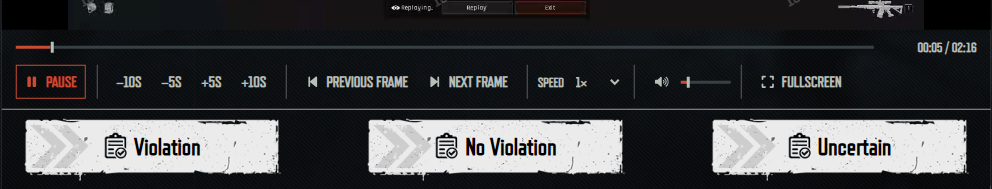
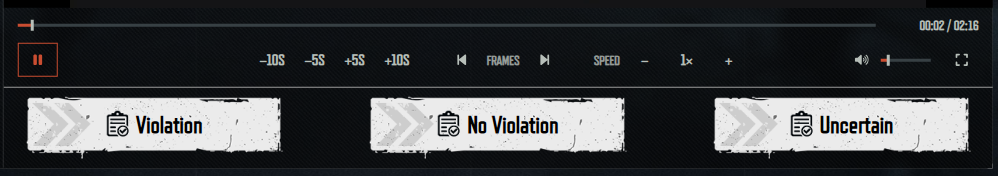
v1.3 - redesign toolbar layout and replace speed select with stepper
- Implement 3-zone layout (playback, centered controls, volume/fullscreen)
- Replace speed dropdown with stepper (0.1x to 3x) and quick reset
- Add frame-stepping controls and player keyboard shortcuts

diff --git a/abi-inspector-enhancer/content.js b/abi-inspector-enhancer/content.js
@@ -55,14 +55,24 @@
     .panel { padding:0 14px 10px; background:transparent; border:0; border-bottom:1px solid var(--abi-border,#41494b); }
     .timeline { display:flex; align-items:center; gap:16px; height:35px; }
     .time { font-size:13px; font-variant-numeric:tabular-nums; white-space:nowrap; min-width:87px; text-align:right; }
-    .row { display:flex; align-items:center; flex-wrap:wrap; row-gap:10px; }
-    .group { display:flex; align-items:center; gap:2px; padding:0 10px; border-left:1px solid color-mix(in srgb,var(--abi-border,#596160) 55%,transparent); }
-    .group:first-child { padding-left:0; border-left:0; }
-    .group:last-child { padding-right:0; }
-    button,select { font:inherit; font-size:15px; letter-spacing:inherit; text-transform:uppercase; height:34px; border:1px solid transparent; border-radius:0; color:inherit; background:transparent; padding:0 8px; cursor:pointer; white-space:nowrap; box-shadow:none; }
-    button:hover,select:hover { border-color:var(--abi-border,#707674); background:#ffffff05; }
+    .panel { container-type:inline-size; }
+    .row { display:grid; grid-template-columns:1fr auto 1fr; align-items:center; column-gap:12px; row-gap:8px; }
+    .left { justify-self:start; display:flex; align-items:center; }
+    .center { display:flex; align-items:center; justify-content:center; flex-wrap:wrap; gap:6px 26px; }
+    .right { justify-self:end; display:flex; align-items:center; gap:14px; }
+    .group { display:flex; align-items:center; gap:2px; }
+    .label { font-size:13px; text-transform:uppercase; padding:0 6px; opacity:.8; user-select:none; }
+    @container (max-width:860px) {
+      .row { grid-template-columns:1fr auto; }
+      .center { grid-column:1 / -1; grid-row:2; }
+    }
+    button { font:inherit; font-size:15px; letter-spacing:inherit; text-transform:uppercase; height:34px; border:1px solid transparent; border-radius:0; color:inherit; background:transparent; padding:0 8px; cursor:pointer; white-space:nowrap; box-shadow:none; }
+    button:hover { border-color:var(--abi-border,#707674); background:#ffffff05; }
     button[aria-pressed=true] { color:var(--abi-accent,#c3472d); border-bottom-color:currentColor; }
-    .primary { min-width:62px; color:var(--abi-accent,#c3472d); border:1px solid currentColor; margin-right:1px; }
+    .primary { width:40px; padding:0; color:var(--abi-accent,#c3472d); border:1px solid currentColor; }
+    #previous,#next,#fullscreen,#slower,#faster { width:34px; padding:0; }
+    #speedval { min-width:46px; padding:0 4px; text-transform:none; }
+    #speedval.changed { color:var(--abi-accent,#c3472d); }
     button:disabled,input:disabled { opacity:.35; cursor:default; }
     :focus-visible { outline:1px solid var(--abi-text,#e0e3de); outline-offset:2px; }
     input[type=range] { appearance:none; -webkit-appearance:none; height:18px; margin:0; padding:0; border:0; background:transparent; cursor:pointer; min-width:0; border-radius:0; }
@@ -70,9 +80,6 @@
     input[type=range]::-webkit-slider-thumb { appearance:none; -webkit-appearance:none; width:3px; height:11px; margin-top:-4px; border:0; border-radius:0; background:var(--abi-text,#e0e3de); box-shadow:none; }
     #seek { flex:1 1 0; width:0; }
     #volume { width:50px; }
-    label { display:flex; align-items:center; gap:4px; font-size:13px; text-transform:uppercase; }
-    select { font-size:14px; padding:0 3px; }
-    option { background:#0b1114; color:#e0e3de; }
     #status { font-size:13px; line-height:1.5; padding-top:6px; }
     #status:empty { display:none; }
     @media(max-width:600px) { .panel { padding-inline:8px; } button { padding-inline:6px; font-size:14px; } .group { padding-inline:6px; } }
@@ -136,14 +143,16 @@
     panel.innerHTML = `
       <div class="timeline"><input id="seek" type="range" min="0" max="1" step="0.01" value="0" aria-label="Video position"><span class="time" id="time">00:00 / --:--</span></div>
       <div class="row">
-        <div class="group" role="group" aria-label="Playback"><button id="play" class="primary" title="Play / Pause (Space or K)">Play</button></div>
-        <div class="group" role="group" aria-label="Seek">
-          <button id="back10" title="Back 10 seconds">−10s</button><button id="back5" title="Back 5 seconds (J or Left)">−5s</button><button id="forward5" title="Forward 5 seconds (L or Right)">+5s</button><button id="forward10" title="Forward 10 seconds">+10s</button>
+        <div class="left"><div class="group" role="group" aria-label="Playback"><button id="play" class="primary" title="Play / Pause (Space or K)">Play</button></div></div>
+        <div class="center">
+          <div class="group" role="group" aria-label="Seek"><button id="back10" title="Back 10 seconds">−10s</button><button id="back5" title="Back 5 seconds (J or Left)">−5s</button><button id="forward5" title="Forward 5 seconds (L or Right)">+5s</button><button id="forward10" title="Forward 10 seconds">+10s</button></div>
+          <div class="group" role="group" aria-label="Frame stepping"><button id="previous" title="Previous approximate frame (comma)">Previous frame</button><span class="label" aria-hidden="true">Frames</span><button id="next" title="Next approximate frame (period)">Next frame</button></div>
+          <div class="group" role="group" aria-label="Playback speed"><span class="label" aria-hidden="true">Speed</span><button id="slower" title="Slower ([)" aria-label="Slower playback ([)">−</button><button id="speedval" title="Reset to 1× (\)" aria-label="Playback speed. Click to reset to 1×">1×</button><button id="faster" title="Faster (])" aria-label="Faster playback (])">+</button></div>
         </div>
-        <div class="group" role="group" aria-label="Frame stepping"><button id="previous" title="Previous approximate frame (comma)">Previous frame</button><button id="next" title="Next approximate frame (period)">Next frame</button></div>
-        <div class="group" role="group" aria-label="Playback settings"><label>Speed <select id="speed" aria-label="Playback speed"><option value="0.1">0.1×</option><option value="0.25">0.25×</option><option value="0.5">0.5×</option><option value="0.75">0.75×</option><option value="1" selected>1×</option><option value="1.25">1.25×</option><option value="1.5">1.5×</option><option value="2">2×</option><option value="3">3×</option></select></label></div>
-        <div class="group" role="group" aria-label="Audio"><button id="mute" title="Mute (M)" aria-pressed="false">Mute</button><input id="volume" type="range" min="0" max="1" step="0.01" value="1" aria-label="Volume"></div>
-        <div class="group" role="group" aria-label="View"><button id="fullscreen" title="Fullscreen (F); Escape to exit" aria-pressed="false">Fullscreen</button></div>
+        <div class="right">
+          <div class="group" role="group" aria-label="Audio"><button id="mute" title="Mute (M)" aria-pressed="false">Mute</button><input id="volume" type="range" min="0" max="1" step="0.01" value="1" aria-label="Volume"></div>
+          <div class="group" role="group" aria-label="View"><button id="fullscreen" title="Fullscreen (F); Escape to exit" aria-pressed="false">Fullscreen</button></div>
+        </div>
       </div>
       <div id="status" role="status" aria-live="polite"></div>`;
     shadow.append(panel);
@@ -175,13 +184,13 @@
     decorate(
       ui.previous,
       "backward-step",
-      "Previous frame",
+      "",
       "Previous approximate frame (comma)",
     );
     decorate(
       ui.next,
       "forward-step",
-      "Next frame",
+      "",
       "Next approximate frame (period)",
     );
     decorate(ui.mute, "volume-high", "", "Mute (M)");
@@ -250,7 +259,7 @@
     }
     function render() {
       const ready = finite();
-      for (const id of ["play", "speed", "mute", "volume"])
+      for (const id of ["play", "slower", "speedval", "faster", "mute", "volume"])
         ui[id].disabled = !video;
       for (const id of [
         "seek",
@@ -266,7 +275,7 @@
       decorate(
         ui.play,
         paused ? "play" : "pause",
-        paused ? "Play" : "Pause",
+        "",
         `${paused ? "Play" : "Pause"} video (Space or K)`,
       );
       ui.play.setAttribute(
@@ -297,7 +306,11 @@
           `${video.muted ? "Unmute" : "Mute"} (M)`,
         );
         ui.mute.setAttribute("aria-pressed", String(video.muted));
-        ui.speed.value = String(video.playbackRate);
+        const rate = video.playbackRate;
+        ui.speedval.textContent = `${Number(rate.toFixed(2))}×`;
+        ui.speedval.classList.toggle("changed", Math.abs(rate - 1) > 0.001);
+        ui.slower.disabled = rate <= SPEEDS[0] + 0.001;
+        ui.faster.disabled = rate >= SPEEDS[SPEEDS.length - 1] - 0.001;
       }
       ui.fullscreen.setAttribute(
         "aria-pressed",
@@ -307,7 +320,7 @@
       decorate(
         ui.fullscreen,
         expanded ? "compress" : "expand",
-        expanded ? "Exit fullscreen" : "Fullscreen",
+        "",
         expanded ? "Exit fullscreen (F or Escape)" : "Fullscreen (F)",
       );
     }
@@ -330,7 +343,6 @@
       if (!video) return;
       video.pause();
       jump(direction / 30);
-      notice("Approximate frame step · 1/30 second");
     }
     async function togglePlay() {
       if (!video) return;
@@ -353,7 +365,26 @@
         notice("Fullscreen unavailable in this browser context");
       }
     }
+    // Speed ladder: one click per step; the value button resets to 1×.
+    const SPEEDS = [0.1, 0.25, 0.5, 0.75, 1, 1.25, 1.5, 2, 3];
+    function setSpeed(rate) {
+      if (!video) return;
+      video.playbackRate = rate;
+      render();
+    }
+    function stepSpeed(direction) {
+      if (!video) return;
+      const now = video.playbackRate;
+      const next =
+        direction > 0
+          ? SPEEDS.find((s) => s > now + 0.001)
+          : [...SPEEDS].reverse().find((s) => s < now - 0.001);
+      if (next !== undefined) setSpeed(next);
+    }
     const actions = {
+      slower: () => stepSpeed(-1),
+      faster: () => stepSpeed(1),
+      speedval: () => setSpeed(1),
       play: togglePlay,
       back10: () => jump(-10),
       back5: () => jump(-5),
@@ -379,12 +410,6 @@
       if (video) {
         video.volume = Number(ui.volume.value);
         video.muted = video.volume === 0;
-        render();
-      }
-    });
-    on(ui.speed, "change", () => {
-      if (video) {
-        video.playbackRate = Number(ui.speed.value);
         render();
       }
     });
@@ -428,6 +453,9 @@
           ".": "next",
           m: "mute",
           f: "fullscreen",
+          "[": "slower",
+          "]": "faster",
+          "\\": "speedval",
         };
         const action =
           keys[event.key.length === 1 ? event.key.toLowerCase() : event.key];

diff --git a/README.md b/README.md
@@ -8,14 +8,36 @@ A focused Chrome and Edge extension for the **Arena Breakout: Infinite Inspector
 
 ## Features
 
-- Play and pause, with a progress slider and elapsed / total time.
-- Separate **−10s, −5s, +5s, and +10s** seek controls.
-- Clearly labeled **Previous frame** and **Next frame** buttons that pause playback and step approximately 1/30 second.
-- Nine playback speeds: **0.1×, 0.25×, 0.5×, 0.75×, 1×, 1.25×, 1.5×, 2×, and 3×**.
+- **Fits the Workbench frame.** Video, toolbar, and the official **Violation / No Violation / Uncertain** buttons are stacked inside the site's video box, with no padding around the footage.
+- **Three-zone toolbar.** Play on the left; seek, frame stepping, and speed centered; volume and fullscreen on the right. Play, mute, and fullscreen are icon-only, and the toolbar background is transparent so it blends into the site.
+- Progress slider with elapsed / total time.
+- Separate **−10s, −5s, +5s, and +10s** seek buttons.
+- **◀ Frames ▶** stepping: pauses playback and steps approximately 1/30 second.
+- **Speed stepper** (**SPEED − 1× +**) across nine speeds: **0.1×, 0.25×, 0.5×, 0.75×, 1×, 1.25×, 1.5×, 2×, and 3×**. The value turns accent-colored when it isn't 1×; click it to reset to 1×.
 - Volume slider and an accessible mute/unmute icon.
 - Fullscreen with the toolbar below the footage and no toolbar scrollbar.
 - Local Font Awesome icons for playback, frame stepping, audio, and fullscreen.
 - Keyboard shortcuts, visible focus states, and automatic reconnection when the official player changes cases.
+
+## Layout
+
+```text
+[            official video (fills the remaining height)            ]
+[ ━━━━━━━━━━━━━━━━━━━━━━ progress ━━━━━━━━━━━━━━━━━━━  00:10 / 01:28 ]
+[▶]      −10s −5s +5s +10s   ◀ FRAMES ▶   SPEED − 1× +      🔊━━  ⛶
+[ Violation ]        [ No Violation ]        [ Uncertain ]
+```
+
+- The Workbench box has a fixed height set by the site, so the video takes whatever height the toolbar and verdict row leave and letterboxes on black if needed. Because the site sizes in `rem` and the toolbar in pixels, the video gets shorter on small windows.
+- When the toolbar is narrower than about 860px, the centered controls wrap onto their own row instead of squeezing.
+- **Exit Inspection** stays in the site's tab bar; it is not moved.
+- To line the video up with the painted frame lines, adjust the insets at the top of the `.play-box` rule in `player.css` (all default to `0`):
+
+```css
+--abi-box-top: 0rem;
+--abi-box-right: 0rem;
+--abi-box-bottom: 0rem;
+```
 
 ## Installation
 
@@ -42,6 +64,8 @@ To restore the original player, disable or remove the extension and refresh the 
 | L or Right arrow | Forward 5 seconds          |
 | Comma            | Previous approximate frame |
 | Period           | Next approximate frame     |
+| [ or ]           | Slower / faster            |
+| \                | Reset speed to 1×          |
 | M                | Mute / unmute              |
 | F                | Enter / exit fullscreen    |
 | Escape           | Exit fullscreen            |
@@ -71,24 +95,21 @@ The extension is plain JavaScript and CSS. Edit the source, reload the unpacked 
 abi-inspector-enhancer/
   manifest.json             Browser declaration and page scope
   content.js                Toolbar, media controls, and lifecycle handling
-  player.css                Workbench and fullscreen layout
+  player.css                Workbench layout (video / toolbar / verdict row) and fullscreen
   README.md                 Standalone installation guide
   THIRD_PARTY_NOTICES.md     Icon attribution
   FONT-AWESOME-LICENSE.txt   Upstream license notice
 ```
 
-### Run the offline checks
+### Check the source
 
-With Node.js and npm installed, run from the repository root:
+With Node.js 20 or newer, run from the repository root:
 
-````sh
-npm install --no-save playwright
-npx playwright install chromium
-npm run check`n```
+```sh
+npm run check
+```
 
-The first suite covers playback controls, all nine speeds, keyboard focus, rerenders, preserved watermark/verdict markup, page scope, and prohibited network/URL access. The second loads the real Manifest V3 extension, exercises an in-memory synthetic video, and checks fullscreen sizing at desktop and narrow widths.
-
-Test HTTP requests are fulfilled locally or blocked. No authenticated account, official footage, or captured case URLs are needed. Generated builds and test fixtures are intentionally excluded from this public source tree.
+This runs a syntax check (`node --check`) on `content.js`. There are no runtime dependencies and no build step. Test fixtures and generated builds are intentionally excluded from this public source tree, and no authenticated account, official footage, or captured case URLs are needed to work on the extension.
 
 ## Troubleshooting and contributions
 
@@ -105,5 +126,3 @@ Bug reports and improvements are welcome. Include the browser version, extension
 Icons: **[Font Awesome Free 6.7.2](https://fontawesome.com/)** by Fonticons, Inc., licensed under **CC BY 4.0**. Eight SVG paths are bundled locally; see [third-party notices](abi-inspector-enhancer/THIRD_PARTY_NOTICES.md) and the [upstream license](abi-inspector-enhancer/FONT-AWESOME-LICENSE.txt).
 
 The site supplies its existing typeface and artwork. Those assets are not distributed in the extension.
-
-````
